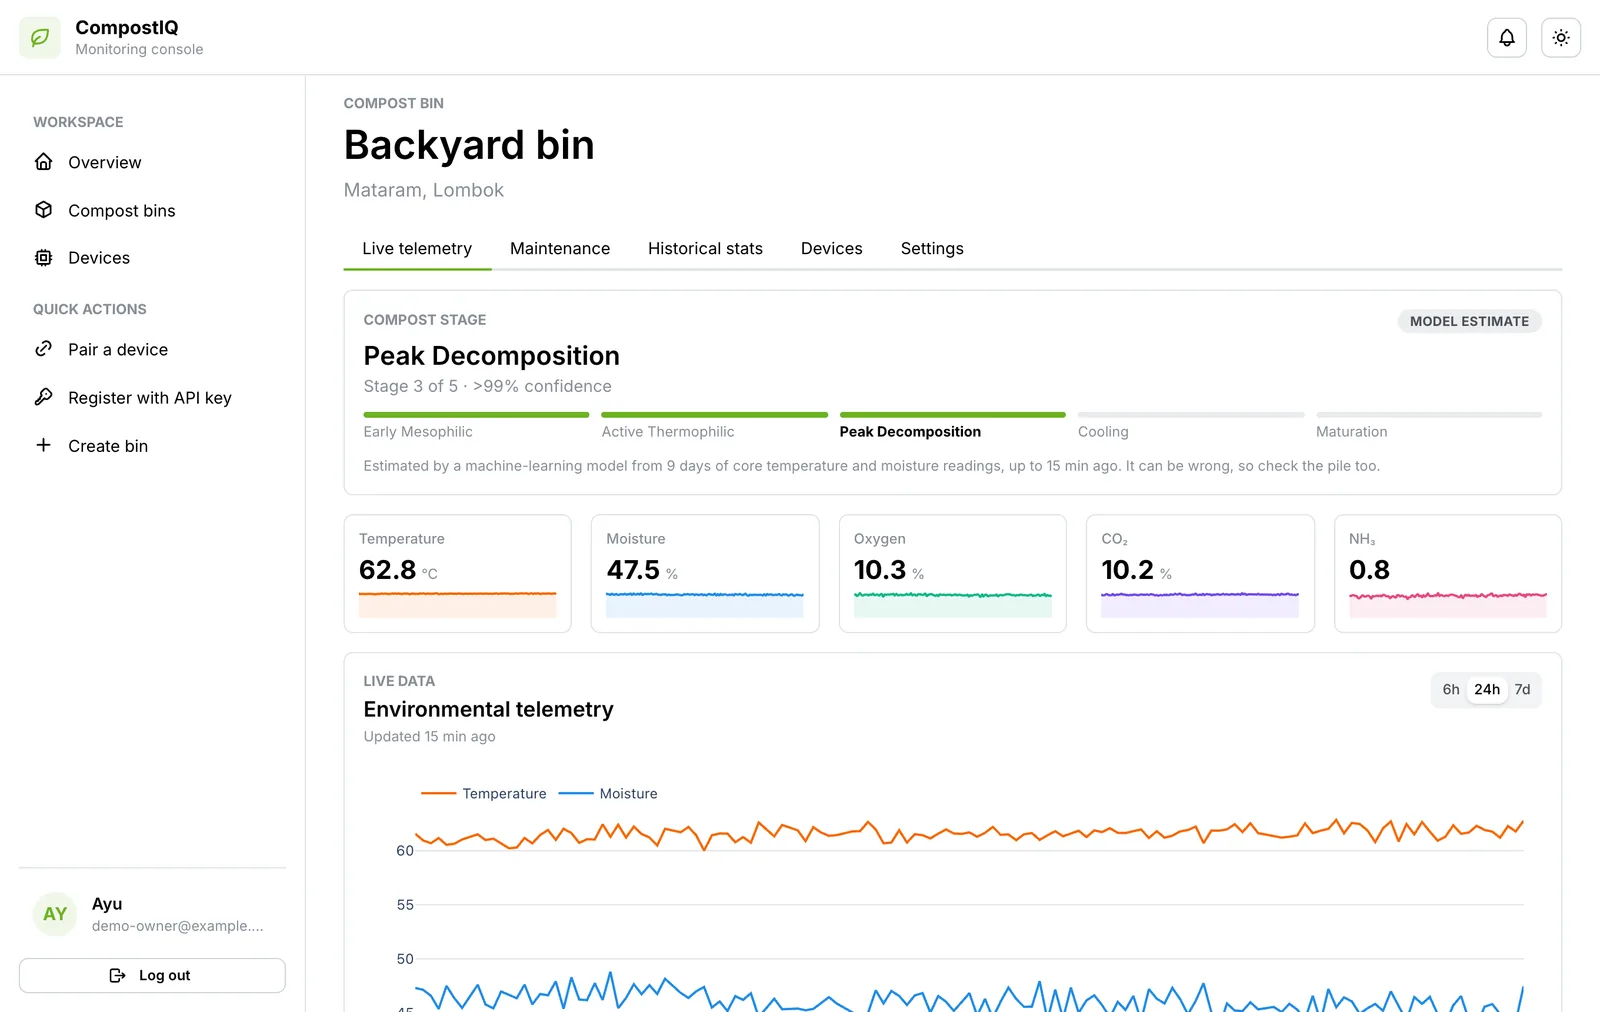
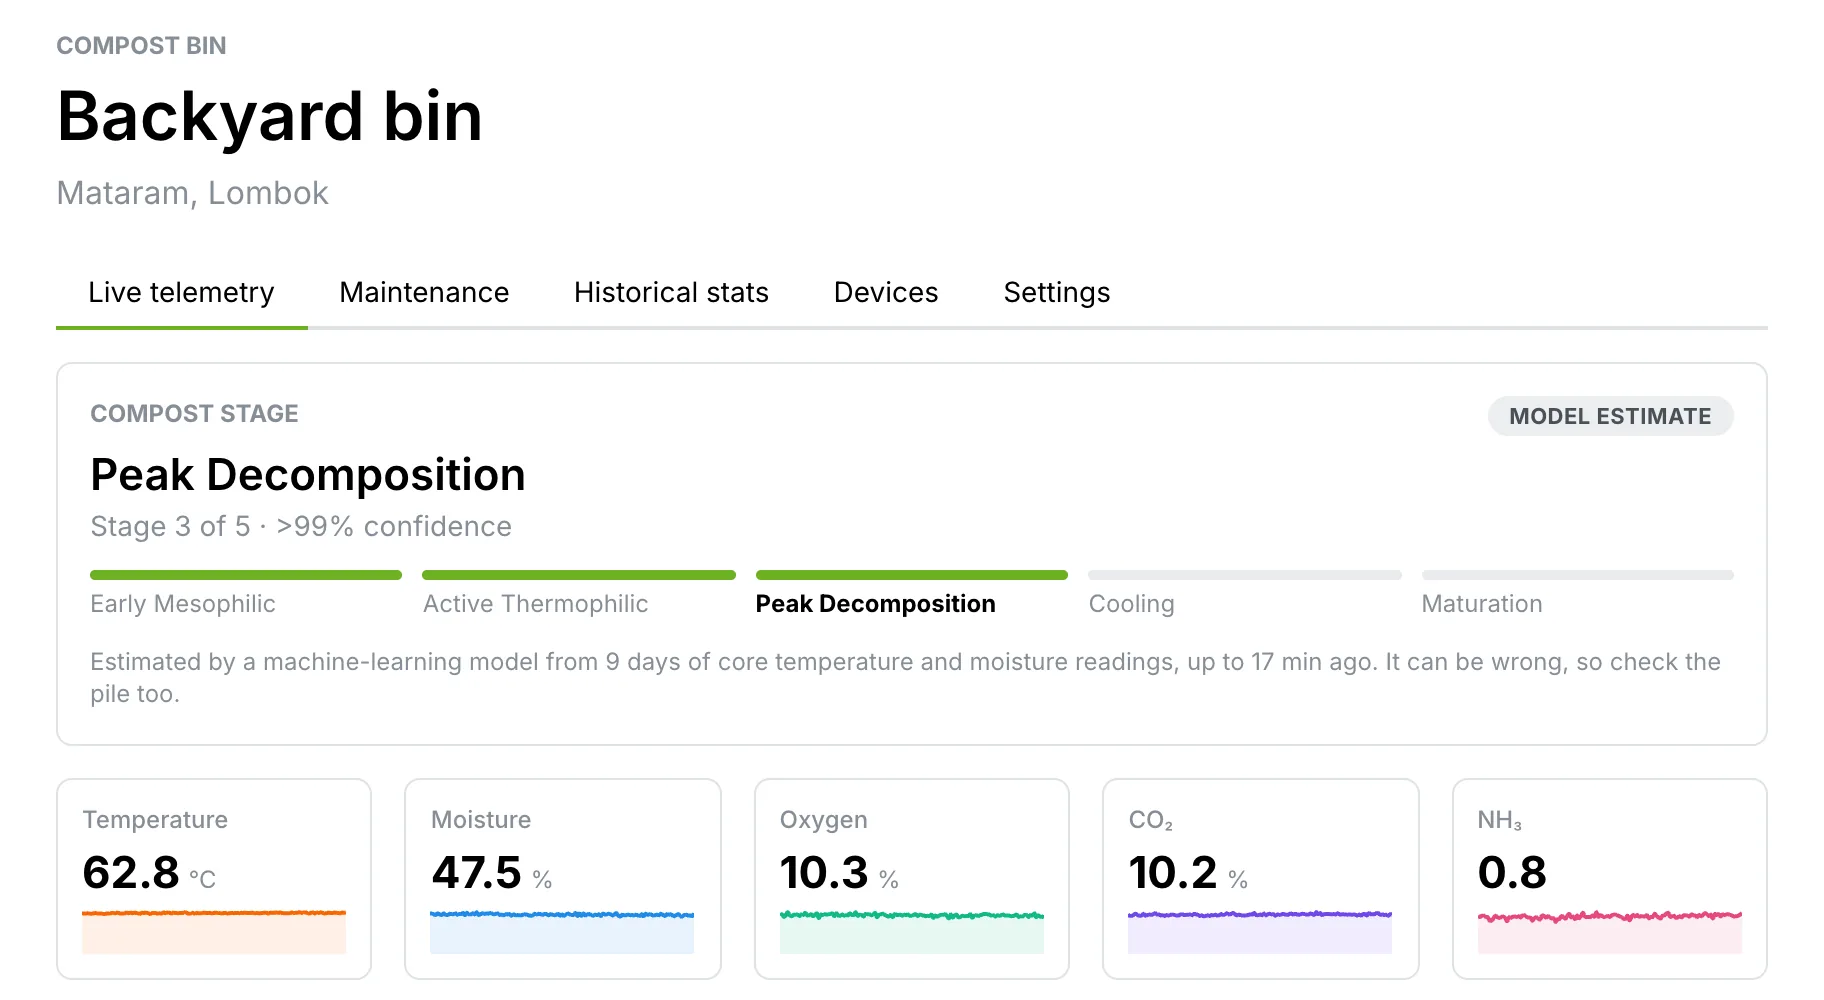
FIX: Spacing and chopped images

diff --git a/website/public/index.html b/website/public/index.html
@@ -60,13 +60,14 @@
 </div>
 </div>
 
-<figure class="shot-stage">
-<div class="shot-stage__backdrop" aria-hidden="true"></div>
-<div class="shot">
-<div class="shot__bar" aria-hidden="true"><span></span><span></span><span></span><span class="shot__url">dashboard.compostiq.win</span></div>
-<img src="/assets/screens/bin-live.webp" width="1600" height="1012" alt="The CompostIQ dashboard showing a bin's Live telemetry tab: the compost stage card reads Peak Decomposition, stage 3 of 5, with over 99% confidence, above the latest temperature, moisture, oxygen, CO₂ and ammonia readings and a 24-hour chart.">
+<figure class="hero-shot">
+<div class="hero-shot__panel">
+<picture class="shot">
+<source media="(max-width: 640px)" srcset="/assets/screens/bin-live-phone.webp" width="1000" height="1366">
+<img src="/assets/screens/bin-live.webp" width="1824" height="1000" alt="The Live telemetry tab for Backyard bin in Mataram, Lombok. The compost stage card reads Peak Decomposition, stage 3 of 5, over 99% confidence, labelled Model estimate. Below it are the latest readings: temperature 62.8 °C, moisture 47.5 %, oxygen 10.3 %, CO₂ 10.2 % and NH₃ 0.8.">
+</picture>
 </div>
-<figcaption class="shot-caption">A bin's Live tab in the dashboard: the model's stage estimate, the latest reading from each sensor, and the last 24 hours charted.</figcaption>
+<figcaption class="shot-caption">A bin's Live tab in the dashboard: the model's stage estimate and the latest reading from each sensor.</figcaption>
 </figure>
 </div>
 </section>
@@ -89,18 +90,27 @@
 </ol>
 <p class="small dim">A bin that never gets hot enough, like a small Takakura basket, goes straight from active thermophilic to cooling. The model was trained on composting cycles generated from these ranges.</p>
 
-<figure class="shot-figure">
-<div class="shot"><img src="/assets/screens/bin-history.webp" width="1200" height="411" loading="lazy" alt="A bin's Historical stats tab: daily average and daily peak temperature over the last 30 days, climbing from 30 °C past the dashed 55 °C pathogen-kill line."></div>
-<figcaption class="shot-caption">Each bin's history: 30 days of daily averages, with the 55 °C pathogen-kill line.</figcaption>
-</figure>
-
-<ul class="sensor-list">
+<div class="feature">
+<div class="stack">
+<h3 class="title-lg">What each reading is used for</h3>
+<ul class="sensor-list sensor-list--stack">
 <li class="sensor"><svg class="icon c-temp" viewBox="0 0 24 24" fill="none" stroke="currentColor" stroke-width="1.75" stroke-linecap="round" stroke-linejoin="round" aria-hidden="true" focusable="false"><path d="M10 13.5a4 4 0 1 0 4 0v-8.5a2 2 0 0 0-4 0v8.5"/><path d="M10 9l4 0"/></svg><span><strong>Temperature</strong>Feeds the stage estimate. Alert above 70 °C.</span></li>
 <li class="sensor"><svg class="icon c-moist" viewBox="0 0 24 24" fill="none" stroke="currentColor" stroke-width="1.75" stroke-linecap="round" stroke-linejoin="round" aria-hidden="true" focusable="false"><path d="M7.502 19.423c2.602 2.105 6.395 2.105 8.996 0c2.602-2.105 3.262-5.708 1.566-8.546l-4.89-7.26c-.42-.625-1.287-.803-1.936-.397a1.376 1.376 0 0 0-.41.397l-4.893 7.26c-1.695 2.838-1.035 6.441 1.567 8.546z"/></svg><span><strong>Moisture</strong>Feeds the stage estimate. Alert below 30 % or above 70 %.</span></li>
 <li class="sensor"><svg class="icon c-oxy" viewBox="0 0 24 24" fill="none" stroke="currentColor" stroke-width="1.75" stroke-linecap="round" stroke-linejoin="round" aria-hidden="true" focusable="false"><path d="M5 8h8.5a2.5 2.5 0 1 0-2.34-3.24"/><path d="M3 12h15.5a2.5 2.5 0 1 1-2.34 3.24"/><path d="M4 16h5.5a2.5 2.5 0 1 1-2.34 3.24"/></svg><span><strong>Oxygen</strong>Alert below 1 %.</span></li>
 <li class="sensor"><svg class="icon c-co2" viewBox="0 0 24 24" fill="none" stroke="currentColor" stroke-width="1.75" stroke-linecap="round" stroke-linejoin="round" aria-hidden="true" focusable="false"><path d="M3 12a9 9 0 1 0 18 0a9 9 0 0 0-18 0"/><path d="M9 10a2 2 0 1 0 0 4"/><path d="M13 12a2 2 0 1 0 4 0a2 2 0 1 0-4 0"/></svg><span><strong>CO₂</strong>Alert above 12 %.</span></li>
 <li class="sensor"><svg class="icon c-nh3" viewBox="0 0 24 24" fill="none" stroke="currentColor" stroke-width="1.75" stroke-linecap="round" stroke-linejoin="round" aria-hidden="true" focusable="false"><path d="M12 3c-1.5 3-5 5.5-5 9.5a5 5 0 0 0 10 0c0-4-3.5-6.5-5-9.5z"/><path d="M10 14h4"/></svg><span><strong>Ammonia</strong>A relative level from 0 to 1. Charted, with no alert.</span></li>
 </ul>
+</div>
+<figure class="shot-figure">
+<picture class="shot">
+<source media="(max-width: 640px)" srcset="/assets/screens/bin-history-phone.webp" width="900" height="881">
+<img src="/assets/screens/bin-history.webp" width="1536" height="764" loading="lazy" alt="A bin's Historical stats tab: daily average and daily peak temperature over the last 30 days, climbing from 30 °C past the dashed 55 °C pathogen-kill line to about 62 °C.">
+</picture>
+<figcaption class="shot-caption">A bin's Historical stats tab: 30 days of daily temperatures, against the 55 °C pathogen-kill line.</figcaption>
+</figure>
+</div>
+
+
 </div>
 </section>
 
@@ -129,14 +139,18 @@
 </li>
 </ol>
 
-<div class="tiles tiles--lg">
+<div class="shot-pair">
 <figure class="shot-figure">
-<div class="shot"><img src="/assets/screens/pair-device-page.webp" width="1200" height="304" loading="lazy" alt="The device's own web page, titled CompostIQ device, CompostIQ Emulator firmware 0.1.0, not paired, with a 6-digit pairing code typed into the code box next to a Pair device button."></div>
-<figcaption class="shot-caption">On the device's page: type the code from the dashboard.</figcaption>
+<picture class="shot">
+<source media="(max-width: 640px)" srcset="/assets/screens/pair-device-page-phone.webp" width="900" height="900">
+<img src="/assets/screens/pair-device-page.webp" width="1120" height="712" loading="lazy" alt="The device's own web page, CompostIQ device, CompostIQ Emulator firmware 0.1.0, not paired. Under Pair with your CompostIQ account are three steps and a 6-digit code typed into the code box, next to a Pair device button."></picture>
+<figcaption class="shot-caption">1 · On the device's page, type the code from the dashboard.</figcaption>
 </figure>
 <figure class="shot-figure">
-<div class="shot"><img src="/assets/screens/pair-confirm.webp" width="1200" height="487" loading="lazy" alt="The dashboard's Pair a device wizard at step 2, Confirm: it shows the hardware ID, model CompostIQ Emulator and firmware 0.1.0 of the device that used the code, with Confirm registration and That's not my device buttons."></div>
-<figcaption class="shot-caption">In the dashboard: check it's your device, then confirm.</figcaption>
+<picture class="shot">
+<source media="(max-width: 640px)" srcset="/assets/screens/pair-confirm-phone.webp" width="800" height="1246">
+<img src="/assets/screens/pair-confirm.webp" width="1536" height="708" loading="lazy" alt="The dashboard's pairing wizard at step 2, Confirm, showing the hardware ID, model CompostIQ Emulator and firmware 0.1.0 of the device that used the code, with That's not my device and Confirm registration buttons."></picture>
+<figcaption class="shot-caption">2 · In the dashboard, check it's your device, then confirm.</figcaption>
 </figure>
 </div>
 
@@ -145,13 +159,16 @@
 </section>
 
 <section class="section">
-<div class="wrap alerts-layout">
-<div class="alerts-layout__intro stack">
+<div class="wrap stack stack--lg">
+<div class="split">
+<div class="split__main stack">
 <span class="eyebrow">Alerts</span>
-<h2 class="display-3">It tells you what to do, not just what it measured.</h2>
-<p class="body-lg">When a reading breaks one of the fixed rules, or a device goes quiet for 10 minutes, the bin gets an alert. It closes by itself once the readings are back in range. The bin's Maintenance tab lists three steps for each open alert.</p>
+<h2 class="display-2">It tells you what to do, not just what it measured.</h2>
 </div>
-<div class="rule-box stack">
+<p class="split__aside body-lg">When a reading breaks one of the fixed rules, or a device goes quiet for 10 minutes, the bin gets an alert. It closes by itself once the readings are back in range. The bin's Maintenance tab lists three steps for each open alert.</p>
+</div>
+<div class="feature feature--text-wide">
+<div class="stack stack--sm">
 <ul class="card rule-list">
 <li class="rule"><span class="rule__cond">Temperature &gt; 70 °C</span><span class="rule__action">Turn the pile to cool it</span><span class="tag tag--hot">High</span></li>
 <li class="rule"><span class="rule__cond">Oxygen &lt; 1 %</span><span class="rule__action">Turn the pile to let air in</span><span class="tag tag--hot">High</span></li>
@@ -161,8 +178,9 @@
 <li class="rule"><span class="rule__cond">No reading for 10 min</span><span class="rule__action">Check the device's power and Wi-Fi</span><span class="tag tag--warn">Medium</span></li>
 </ul>
 <p class="small dim">An offline alert is worked out each time you look, from when the device was last heard from, and is not stored.</p>
-<figure class="shot-figure">
-<div class="shot"><img src="/assets/screens/bin-maintenance.webp" width="900" height="385" loading="lazy" alt="A bin's Maintenance tab with one open alert, Moisture is too low, started 1 h ago, and three numbered steps: add water while turning the pile, stop when a squeezed handful feels damp but doesn't drip, and cover the bin."></div>
+</div>
+<figure class="shot-figure shot-figure--narrow">
+<picture class="shot"><img src="/assets/screens/bin-maintenance.webp" width="1040" height="408" loading="lazy" alt="A bin's Maintenance tab with one open alert, Moisture is too low, started 1 h ago, and three numbered steps: add water while turning the pile, stop when a squeezed handful feels damp but doesn't drip, and cover the bin to keep the moisture in."></picture>
 <figcaption class="shot-caption">The Maintenance tab for a bin that has dried out.</figcaption>
 </figure>
 </div>
@@ -212,7 +230,10 @@
 </div>
 
 <figure class="shot-figure">
-<div class="shot shot--on-dark"><img src="/assets/screens/research-data.webp" width="1400" height="838" loading="lazy" alt="The Explore data page in a researcher's dashboard: Daily, Overall and Alerts views, country and date filters, a Download CSV button, and a table with one row per country per UTC day giving bins, readings, and the average with minimum and maximum of temperature, moisture, oxygen, CO₂ and ammonia."></div>
+<picture class="shot shot--on-dark">
+<source media="(max-width: 640px)" srcset="/assets/screens/research-data-phone.webp" width="1003" height="646">
+<img src="/assets/screens/research-data.webp" width="1600" height="702" loading="lazy" alt="The Explore data page in a researcher's dashboard: Daily, Overall and Alerts views, country and date filters, a Download CSV button, and a table with one row per country per UTC day giving bins, readings, and the average with minimum and maximum of temperature, moisture, oxygen, CO₂ and ammonia.">
+</picture>
 <figcaption class="shot-caption shot-caption--on-dark">A researcher's Explore data page: the same per-country figures the API returns.</figcaption>
 </figure>
 </div>

diff --git a/website/public/assets/site.css b/website/public/assets/site.css
@@ -302,12 +302,11 @@ strong { color: var(--ink); }
 .hero__actions { padding-top: 8px; }
 .hero__aside { flex: 1 1 420px; min-width: 0; }
 
-/* Screenshots of the running dashboard (assets/screens), in a plain browser frame. */
-.shot-stage { position: relative; padding: 28px 28px 0 0; display: flex; flex-direction: column; gap: 14px; }
-.shot-stage__backdrop { position: absolute; inset: 0 0 72px 72px; background: var(--green-soft); border-radius: 24px; }
-.shot-stage .shot, .shot-stage .shot-caption { position: relative; }
-.shot-figure { display: flex; flex-direction: column; gap: 12px; min-width: 0; }
+/* Screenshots of the running dashboard (assets/screens). Each is captured at
+   about the width it is shown at, with a phone crop where the desktop one
+   would be too small to read. */
 .shot {
+  display: block;
   overflow: hidden;
   background: var(--surface);
   border: 1px solid var(--line);
@@ -315,12 +314,24 @@ strong { color: var(--ink); }
   box-shadow: 0 1px 2px rgba(26, 23, 18, 0.06), 0 12px 32px -12px rgba(26, 23, 18, 0.18);
 }
 .shot img { display: block; width: 100%; height: auto; }
-.shot__bar { display: flex; align-items: center; gap: 6px; padding: 10px 14px; border-bottom: 1px solid var(--line-soft); background: var(--ground); }
-.shot__bar span:not(.shot__url) { width: 10px; height: 10px; border-radius: 50%; background: var(--line-strong); }
-.shot__url { margin-left: 10px; font: 12px var(--font-mono); color: var(--muted); }
 .shot--on-dark { border-color: var(--earth-line); }
+.shot-figure { display: flex; flex-direction: column; gap: 12px; min-width: 0; }
+/* a capture of a narrow window: kept near its own size when it gets a whole row */
+.shot-figure--narrow { width: 100%; max-width: 560px; }
 .shot-caption { font-size: 14px; color: var(--muted); }
 .shot-caption--on-dark { color: var(--on-dark-3); }
+
+.hero-shot { width: 100%; max-width: 1040px; margin: 0 auto; display: flex; flex-direction: column; gap: 14px; }
+.hero-shot__panel { padding: clamp(14px, 3.5vw, 36px); background: var(--green-soft); border-radius: 24px; }
+.hero-shot .shot-caption { text-align: center; }
+
+/* Text beside a screenshot; one column on narrow screens. */
+.feature { display: grid; grid-template-columns: minmax(0, 5fr) minmax(0, 7fr); gap: 32px 56px; align-items: center; }
+.feature--text-wide { grid-template-columns: minmax(0, 7fr) minmax(0, 5fr); }
+
+/* Two screenshots side by side, each column as wide as its image is
+   proportionally (1120×712 and 1536×708), so both come out the same height. */
+.shot-pair { display: grid; grid-template-columns: minmax(0, 157fr) minmax(0, 217fr); gap: 24px; align-items: start; }
 
 .c-temp { color: var(--temp); }
 .c-moist { color: var(--moist); }
@@ -345,6 +356,8 @@ strong { color: var(--ink); }
 .sensor-list { display: flex; flex-wrap: wrap; gap: 12px 32px; padding-top: 8px; border-top: 1px dashed var(--line-strong); }
 .sensor { flex: 1 1 180px; display: flex; gap: 10px; padding-top: 16px; font-size: 14px; color: var(--ink-2); }
 .sensor .icon { margin-top: 2px; }
+.sensor-list--stack { flex-direction: column; gap: 18px; padding-top: 0; border-top: 0; }
+.sensor-list--stack .sensor { flex: none; padding-top: 0; }
 .sensor strong { display: block; }
 
 .step-card { padding: 28px; display: flex; flex-direction: column; gap: 14px; }
@@ -352,9 +365,6 @@ strong { color: var(--ink); }
 .step-card__num { font: 800 44px/1 var(--font-display); color: var(--green-mid); }
 .step-card p { color: var(--ink-2); }
 
-.alerts-layout { display: flex; flex-wrap: wrap; gap: 40px 64px; align-items: flex-start; }
-.alerts-layout__intro { flex: 1 1 340px; min-width: 0; }
-.rule-box { flex: 2 1 560px; min-width: 0; }
 .rule-list { overflow: hidden; }
 .rule { display: flex; flex-wrap: wrap; align-items: center; gap: 8px 20px; padding: 18px 22px; border-bottom: 1px solid var(--line-soft); }
 .rule:last-child { border-bottom: 0; }
@@ -711,8 +721,7 @@ strong { color: var(--ink); }
   }
   .docs-mobile a[aria-current] { background: var(--ink); border-color: var(--ink); color: var(--on-dark); }
   .def__k { flex-basis: 100%; }
-  .shot-stage { padding: 14px 14px 0 0; }
-  .shot-stage__backdrop { inset: 0 0 56px 32px; }
+  .feature, .feature--text-wide, .shot-pair { grid-template-columns: minmax(0, 1fr); }
   .glance__item { border-right: 0; border-bottom: 1px solid var(--line-soft); }
   .facts > div { border-right: 0; border-bottom: 1px solid var(--line-soft); }
   .facts > div:last-child { border-bottom: 0; }
